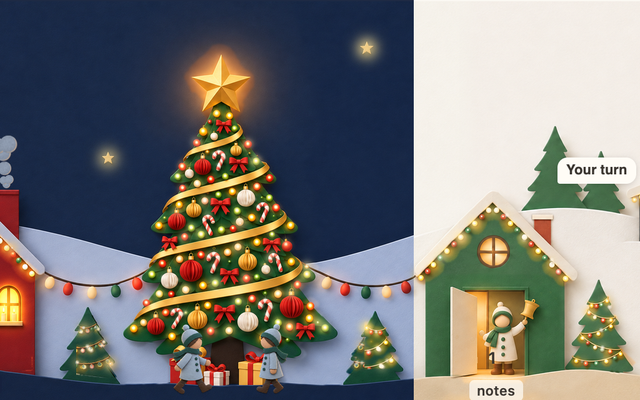
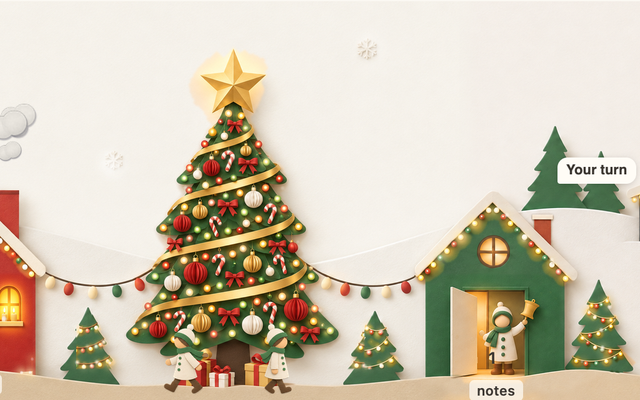
feat(preview): 갤러리 그림 A 포스터형 교체와 촬영 장수 사전 검사
- preview.png 를 어두운 테마 장면 + 터미널·레일 카드 포스터형으로 교체
- layouts/x-mas-paper.png 를 밝은 테마 트리·notes 자르기로 복원
- render.sh 가 LIGHT_SHOTS·DARK_SHOTS 5 미만이면 창을 띄우기 전에 종료
- 연기 넓이 최대 프레임 선택과 조기 종료 테스트 추가

diff --git a/tools/preview/compose.py b/tools/preview/compose.py
@@ -1,27 +1,45 @@
 """Picks the gallery frames and composes the two preview pictures.
 
 Takes several frames per theme, keeps the dark frame whose chimney shows three puffs and whose
-tree keeps two walkers, and the first light frame that keeps two walkers, then lays them out as a
-2560x1600 gallery picture (dark row on top, light row below) and a 640x400 layout picture (night on
-the left, day on the right).
+tree keeps two walkers, and the first light frame that keeps two walkers. The gallery picture is a
+poster of that dark frame: its village band sits large on a night sky, with a terminal card and a
+rail card below. The layout picture cuts the light frame around the tree and the notes house.
 
 Every coordinate below is in the 6720x1800 shot, which is the 3360x900 window at 2x. If the demo
-scene's placement changes, re-fit VILLAGE (all five houses, docs through api) and the two rail
-ranges, keeping each cut on a group or card boundary rather than through one.
+scene's placement changes, re-fit the village band (all five houses, docs through api), the terminal
+band (the prompt line down to the "3 of 3 routes pass" line), the rail band (the north-pole and
+cocoa-house groups, cut on a group boundary) and the 640 band (the tree, the notes house and its
+Your turn bubble).
 """
 import argparse
+import random
 import sys
-from PIL import Image, ImageDraw
+from PIL import Image, ImageChops, ImageDraw, ImageFilter
 
 SHOT = (6720, 1800)
 LANE = (2850, 500, 3600, 660)      # the walkers band under the tree
 BOX = (2700, 120, 2860, 320)       # the chimney's smoke
 
-W, H, ROW, PAD, GAP, RAD = 2560, 1600, 800, 56, 32, 24
-BG_DARK, BG_LIGHT = (0x1E, 0x2A, 0x44), (0xFB, 0xF8, 0xF2)
-VILLAGE = (2250, 14, 4010, 655)                      # R3
-RAIL_DARK = (6240, 85, 6710, 745)                    # R4: north-pole + cocoa-house groups
-RAIL_LIGHT = (6240, 945, 6710, 1427)                 # R5: Work + Side account cards
+GALLERY = (2560, 1600)
+SKY_TOP, SKY_BOT = (12, 24, 54), (18, 32, 66)
+VILLAGE = (1840, 16, 4400, 655)    # the five painted houses, docs through api
+VILLAGE_Y = 60
+VILLAGE_FADE = (220, 220, 140, 0)  # left, right, top, bottom
+TERMINAL = (40, 775, 1880, 1470)   # the prompt line down to "3 of 3 routes pass"
+TERMINAL_SCALE = 0.9
+TERMINAL_PAD = (44, 36)
+TERMINAL_BG = (24, 32, 58)
+RAIL = (6236, 84, 6716, 770)       # the north-pole and cocoa-house groups
+RAIL_PAD = 20
+RAIL_BG = (30, 42, 68)
+CARD_RAD = 28
+CARD_BG = (30, 42, 68)
+CARD_BORDER = (58, 72, 108)
+CARD_GAP = 40
+BOTTOM = 96
+STAR_CENTERS = ((3325, 90, 34), (2659, 135, 28), (2910, 266, 26))  # x, y, half-size
+STARS_N, STARS_SEED = 24, 7
+LAYOUT = (2738, 14, 3762, 654)     # tree, the notes house and its Your turn bubble
 
 
 def load(paths, theme):
@@ -137,13 +155,113 @@ def pick_light(paths, images):
     return None
 
 
-def place(canvas, src, box, x, y, s):
-    cut = src.crop(box)
-    cut = cut.resize((round(cut.width * s), round(cut.height * s)), Image.LANCZOS)
-    mask = Image.new("L", cut.size, 0)
-    ImageDraw.Draw(mask).rounded_rectangle((0, 0, cut.width - 1, cut.height - 1), RAD, fill=255)
-    canvas.paste(cut, (x, y), mask)
-    return cut.size
+def sky():
+    width, height = GALLERY
+    image = Image.new("RGB", (width, height))
+    draw = ImageDraw.Draw(image)
+    for y in range(height):
+        t = y / (height - 1)
+        draw.line([(0, y), (width, y)],
+                  fill=tuple(round(a + (b - a) * t) for a, b in zip(SKY_TOP, SKY_BOT)))
+    return image
+
+
+def star_sprites(dark):
+    return [dark.crop((x - half, y - half, x + half, y + half)) for x, y, half in STAR_CENTERS]
+
+
+def scatter_stars(image, sprites, avoid, n=STARS_N, seed=STARS_SEED):
+    width, height = GALLERY
+    rng = random.Random(seed)
+    for _ in range(n * 6):
+        if n <= 0:
+            break
+        sprite = rng.choice(sprites)
+        scale = rng.uniform(0.5, 1.0)
+        sprite = sprite.resize((int(sprite.width * scale), int(sprite.height * scale)), Image.LANCZOS)
+        x = rng.randint(20, width - 80)
+        y = rng.randint(20, height - 80)
+        if any(x + sprite.width > a and x < c and y + sprite.height > b and y < e for a, b, c, e in avoid):
+            continue
+        mask = sprite.convert("L").point(lambda v: 0 if v < 70 else min(255, (v - 70) * 3))
+        image.paste(sprite, (x, y), mask)
+        n -= 1
+
+
+def feather(image, left, right, top, bottom):
+    mask = Image.new("L", image.size, 255)
+    draw = ImageDraw.Draw(mask)
+    width, height = image.size
+    for i in range(left):
+        draw.line([(i, 0), (i, height)], fill=int(255 * i / left))
+    for i in range(right):
+        draw.line([(width - 1 - i, 0), (width - 1 - i, height)], fill=int(255 * i / right))
+    if top:
+        edge = Image.new("L", image.size, 255)
+        edge_draw = ImageDraw.Draw(edge)
+        for i in range(top):
+            edge_draw.line([(0, i), (width, i)], fill=int(255 * i / top))
+        mask = ImageChops.multiply(mask, edge)
+    if bottom:
+        edge = Image.new("L", image.size, 255)
+        edge_draw = ImageDraw.Draw(edge)
+        for i in range(bottom):
+            edge_draw.line([(0, height - 1 - i), (width, height - 1 - i)], fill=int(255 * i / bottom))
+        mask = ImageChops.multiply(mask, edge)
+    return mask
+
+
+def rounded_mask(size, radius):
+    mask = Image.new("L", size, 0)
+    ImageDraw.Draw(mask).rounded_rectangle((0, 0, size[0] - 1, size[1] - 1), radius, fill=255)
+    return mask
+
+
+def card(canvas, content, xy, radius=CARD_RAD, pad=0, bg=CARD_BG, border=CARD_BORDER, shadow=True):
+    width, height = content.width + 2 * pad, content.height + 2 * pad
+    x, y = xy
+    if shadow:
+        shade = Image.new("L", canvas.size, 0)
+        ImageDraw.Draw(shade).rounded_rectangle((x, y + 18, x + width, y + height + 18), radius, fill=150)
+        shade = shade.filter(ImageFilter.GaussianBlur(36))
+        canvas.paste(Image.new("RGB", canvas.size, (2, 5, 14)), (0, 0), shade)
+    plate = Image.new("RGB", (width, height), bg)
+    plate.paste(content, (pad, pad))
+    if border:
+        ImageDraw.Draw(plate).rounded_rectangle((0, 0, width - 1, height - 1), radius, outline=border, width=2)
+    canvas.paste(plate, (x, y), rounded_mask((width, height), radius))
+
+
+def cut(image, box, scale):
+    piece = image.crop(box)
+    return piece.resize((round(piece.width * scale), round(piece.height * scale)), Image.LANCZOS)
+
+
+def poster(dark):
+    width, height = GALLERY
+    image = sky()
+    village = dark.crop(VILLAGE)
+    terminal = cut(dark, TERMINAL, TERMINAL_SCALE)
+    rail = cut(dark, RAIL, 1.0)
+    terminal_card = Image.new("RGB", (terminal.width + 2 * TERMINAL_PAD[0],
+                                     terminal.height + 2 * TERMINAL_PAD[1]), TERMINAL_BG)
+    terminal_card.paste(terminal, TERMINAL_PAD)
+    rail_card = Image.new("RGB", (rail.width + 2 * RAIL_PAD, terminal_card.height), RAIL_BG)
+    rail_card.paste(rail, (RAIL_PAD, (rail_card.height - rail.height) // 2))
+    total = terminal_card.width + CARD_GAP + rail_card.width
+    x0 = (width - total) // 2
+    y = height - BOTTOM - terminal_card.height
+    scatter_stars(image, star_sprites(dark),
+                  [(0, VILLAGE_Y, width, VILLAGE_Y + village.height), (x0 - 40, y - 40, x0 + total + 40, height)])
+    image.paste(village, (0, VILLAGE_Y), feather(village, *VILLAGE_FADE))
+    card(image, terminal_card, (x0, y), bg=TERMINAL_BG)
+    card(image, rail_card, (x0 + terminal_card.width + CARD_GAP, y), bg=RAIL_BG)
+    return image
+
+
+def layout640(light):
+    x0, y0, x1, y1 = LAYOUT
+    return light.crop((x0, y0, x1, y1)).resize((640, 400), Image.LANCZOS)
 
 
 def main():
@@ -171,27 +289,8 @@ def main():
     sys.stderr.write(f"compose.py: dark {dark[1]}\n")
     sys.stderr.write(f"compose.py: light {light[1]}\n")
 
-    canvas = Image.new("RGB", (W, H))
-    draw = ImageDraw.Draw(canvas)
-    draw.rectangle((0, 0, W, ROW - 1), fill=BG_DARK)
-    draw.rectangle((0, ROW, W, H), fill=BG_LIGHT)
-    content_h = ROW - 2 * PAD
-    for row, (src, rail) in enumerate([(dark[0], RAIL_DARK), (light[0], RAIL_LIGHT)]):
-        top = row * ROW + PAD
-        s = content_h / (VILLAGE[3] - VILLAGE[1])
-        village_w, _ = place(canvas, src, VILLAGE, PAD, top, s)
-        cx = PAD + village_w + GAP
-        cw = W - PAD - cx
-        rw, rh = rail[2] - rail[0], rail[3] - rail[1]
-        rs = min(cw / rw, content_h / rh)
-        place(canvas, src, rail, cx + (cw - round(rw * rs)) // 2, top + (content_h - round(rh * rs)) // 2, rs)
-    canvas.save(args.out_hero)
-
-    x0, y0, x1, y1, seam = 2738, 14, 3762, 654, 3400
-    cut = Image.new("RGB", (x1 - x0, y1 - y0))
-    cut.paste(dark[0].crop((x0, y0, seam, y1)), (0, 0))
-    cut.paste(light[0].crop((seam, y0, x1, y1)), (seam - x0, 0))
-    cut.resize((640, 400), Image.LANCZOS).save(args.out_layout)
+    poster(dark[0]).save(args.out_hero)
+    layout640(light[0]).save(args.out_layout)
 
 
 if __name__ == "__main__":

diff --git a/RECIPE.md b/RECIPE.md
@@ -113,8 +113,8 @@ Giving the keyboard back returns it to the pane the band came from when that pan
     "cmd-]": "x-mas-paper-scene.forward"
   }
   ```
-- Pictures: `tools/preview/render.sh` writes `preview.png` (2560 × 1600, the dark theme on top and the light theme below, each row a village shot beside a rail piece: the session list above, the account cards below) and `layouts/x-mas-paper.png` (640 × 400, night on the tree side and day on the notes side). It needs macOS and `uv` (https://docs.astral.sh/uv/), an unlocked screen, no other preview window and nothing shown over the window; it starts a 3360 × 900 preview window at a temp home (a 2× screen gives the 6720 × 1800 shots), waits for two shots 1.5 s apart to differ, shoots `LIGHT_SHOTS` frames, switches `settings.json` to dark, shoots `DARK_SHOTS` frames, stops the window, and runs `tools/preview/compose.py`, which keeps a dark frame with three puffs from the chimney and two walkers under the tree and the first light frame with the two walkers. `tools/preview/build-layout.py` turns the layout into the picture layout (demo props on the scene, rail, accounts and tabs; the terminal block becomes `x-mas-paper-demo-term`; the toast becomes `x-mas-paper-demo-toast`). `tools/preview.sh` starts/stops/shoots the preview window and poses the scene with `tools/preview.sh do x-mas-paper-scene.press:{...}`.
-- `tests/` (14 test files, 166 tests, run with `node --import ./tests/stubs/register.mjs --test tests/`) covers the scene model and keys, the rail's space names, the faces, tabs, pane, editor, accounts (including the vendored `cca` helpers), install and install-keys behaviour, the preview tooling and the gallery frame picker, and that the vendored runtime files match the `herdr-shared` submodule.
+- Pictures: `tools/preview/render.sh` writes `preview.png` (2560 × 1600: the dark theme as a poster — its village scene large on a night sky, with a terminal card and a rail card, the session list, below it) and `layouts/x-mas-paper.png` (640 × 400: a crop of the light theme's tree and notes house with its `Your turn` bubble). It needs macOS and `uv` (https://docs.astral.sh/uv/), an unlocked screen, no other preview window and nothing shown over the window; it starts a 3360 × 900 preview window at a temp home (a 2× screen gives the 6720 × 1800 shots), waits for two shots 1.5 s apart to differ, shoots `LIGHT_SHOTS` frames, switches `settings.json` to dark, shoots `DARK_SHOTS` frames, stops the window, and runs `tools/preview/compose.py`, which keeps a dark frame with three puffs from the chimney and two walkers under the tree and the first light frame with the two walkers. `tools/preview/build-layout.py` turns the layout into the picture layout (demo props on the scene, rail, accounts and tabs; the terminal block becomes `x-mas-paper-demo-term`; the toast becomes `x-mas-paper-demo-toast`). `tools/preview.sh` starts/stops/shoots the preview window and poses the scene with `tools/preview.sh do x-mas-paper-scene.press:{...}`.
+- `tests/` (14 test files, 168 tests, run with `node --import ./tests/stubs/register.mjs --test tests/`) covers the scene model and keys, the rail's space names, the faces, tabs, pane, editor, accounts (including the vendored `cca` helpers), install and install-keys behaviour, the preview tooling and the gallery frame picker, and that the vendored runtime files match the `herdr-shared` submodule.
 
 ## Watch out
 
@@ -142,7 +142,7 @@ Giving the keyboard back returns it to the pane the band came from when that pan
 
 ## Done when
 
-- `node --import ./tests/stubs/register.mjs --test tests/` passes: 166 tests covering the five states, the frame maths, the slots and overlay files, the keyboard decisions, the faces, tabs, pane, editor, accounts parsing, install and keys behaviour, the gallery frame picker, and the vendored files.
+- `node --import ./tests/stubs/register.mjs --test tests/` passes: 168 tests covering the five states, the frame maths, the slots and overlay files, the keyboard decisions, the faces, tabs, pane, editor, accounts parsing, install and keys behaviour, the gallery frame picker, and the vendored files.
 - `tools/install.sh` copies the six mods, both layouts, `layouts/x-mas-paper.png`, both themes and prints a `herdr-app check` pass line for each mod; with no `layout:x-mas-paper` section it prints the section instead of touching `keys.json`.
 - Picking **x-mas-paper** in the layout picker shows the village band, the 30 px tab row, the terminal with its header, and the rail with its space tree, account badges and two buttons; the layout picker shows the 640 × 400 picture.
 - A Claude Code session appears as a named house on the band within one 3 s scan; while it works its chimney puffs and its windows glow; a waiting session opens its door and shows `Your turn`; a finished unread one gets a gift box that goes away when the house is clicked; a session idle for more than 30 minutes shows `zzz` over dark windows.

diff --git a/README.md b/README.md
@@ -77,6 +77,6 @@ The scene answers `x-mas-paper-scene.toggle`, `.back` and `.forward`, plus a `pr
 tools/preview/render.sh
 ```
 
-This writes `preview.png` (2560×1600: the dark theme on top and the light theme below, each row a village shot beside a rail piece — the session list above, the account cards below) and `layouts/x-mas-paper.png` (640×400: night on the tree side, day on the notes side). It opens a preview window at 3360×900 (a 2× screen is needed for the 6720×1800 shots), shoots `LIGHT_SHOTS` frames of the light appearance and `DARK_SHOTS` of the dark, then lets `tools/preview/compose.py` pick the scenes: a dark frame showing three puffs from the chimney and two walkers under the tree, and the first light frame showing the two walkers. It needs macOS and `uv` (https://docs.astral.sh/uv/), an unlocked screen, and no other preview window running; it stops without writing if a notification or dialog sits over the window.
+This writes `preview.png` (2560×1600: the dark theme as a poster — its village scene large on a night sky, with a terminal card and a rail card, the session list, below it) and `layouts/x-mas-paper.png` (640×400: a crop of the light theme's tree and notes house with its `Your turn` bubble). It opens a preview window at 3360×900 (a 2× screen is needed for the 6720×1800 shots), shoots `LIGHT_SHOTS` frames of the light appearance and `DARK_SHOTS` of the dark, then lets `tools/preview/compose.py` pick the scenes: a dark frame showing three puffs from the chimney and two walkers under the tree, and the first light frame showing the two walkers. It needs macOS and `uv` (https://docs.astral.sh/uv/), an unlocked screen, and no other preview window running; it stops without writing if a notification or dialog sits over the window.
 
 The window shows invented data only. `tools/preview/build-layout.py` turns `layouts/x-mas-paper.json` into a picture layout: the scene, rail, accounts and tabs blocks get `props.demo`, and the terminal block becomes the `x-mas-paper-demo-term` panel in `tools/preview/mods/`. The demo sessions live in `mods/x-mas-paper-scene/demo.js`; the rail, the accounts and the tabs keep their own invented data in their folders.

diff --git a/CLAUDE.md b/CLAUDE.md
@@ -28,7 +28,7 @@ node --import ./tests/stubs/register.mjs --test tests/
 tools/preview/render.sh
 ```
 
-`preview.png`(2560×1600, 위는 어두운 테마·아래는 밝은 테마, 줄마다 마을 구간과 레일 조각: 위는 세션 목록, 아래는 계정 카드)와 `layouts/x-mas-paper.png`(640×400, 트리 쪽은 밤·notes 쪽은 낮)를 다시 만든다. 3360×900 창을 띄워(6720×1800 촬영본이라 2배 화면이 필요하다) 테마마다 여러 장(`LIGHT_SHOTS`, `DARK_SHOTS`)을 찍고, `tools/preview/compose.py` 가 굴뚝 연기 세 알과 트리 아래 주민 둘이 보이는 장면을 골라 합성한다. macOS 와 `uv`(https://docs.astral.sh/uv/)가 필요하고, 화면이 잠겨 있거나 미리보기 창이 이미 떠 있거나 창 위에 알림·대화상자가 있으면 아무것도 쓰지 않고 멈춘다.
+`preview.png`(2560×1600, 어두운 테마의 마을 장면을 밤하늘 위에 크게 두고 그 아래에 터미널 카드와 레일 카드(세션 목록)를 놓은 포스터형)와 `layouts/x-mas-paper.png`(640×400, 밝은 테마의 트리와 notes 집·`Your turn` 말풍선을 자른 그림)를 다시 만든다. 3360×900 창을 띄워(6720×1800 촬영본이라 2배 화면이 필요하다) 테마마다 여러 장(`LIGHT_SHOTS`, `DARK_SHOTS`)을 찍고, `tools/preview/compose.py` 가 굴뚝 연기 세 알과 트리 아래 주민 둘이 보이는 장면을 골라 합성한다. macOS 와 `uv`(https://docs.astral.sh/uv/)가 필요하고, 화면이 잠겨 있거나 미리보기 창이 이미 떠 있거나 창 위에 알림·대화상자가 있으면 아무것도 쓰지 않고 멈춘다.
 
 - `tools/preview/build-layout.py` 가 `layouts/x-mas-paper.json` 을 그림용으로 고친다: 장면·레일·계정·탭 블록에 `props.demo` 를 넣고, 터미널 블록을 `tools/preview/mods/x-mas-paper-demo-term` 로 바꾼다.
 - 지어낸 데모 데이터는 `mods/x-mas-paper-scene/demo.js`, `mods/x-mas-paper-rail/demo.js`, `mods/x-mas-paper-accounts/demo.js`, `mods/x-mas-paper-tabs/main.js` 의 `DEMO_SPACE`, `tools/preview/mods/x-mas-paper-demo-term/main.js` 에 있다.
